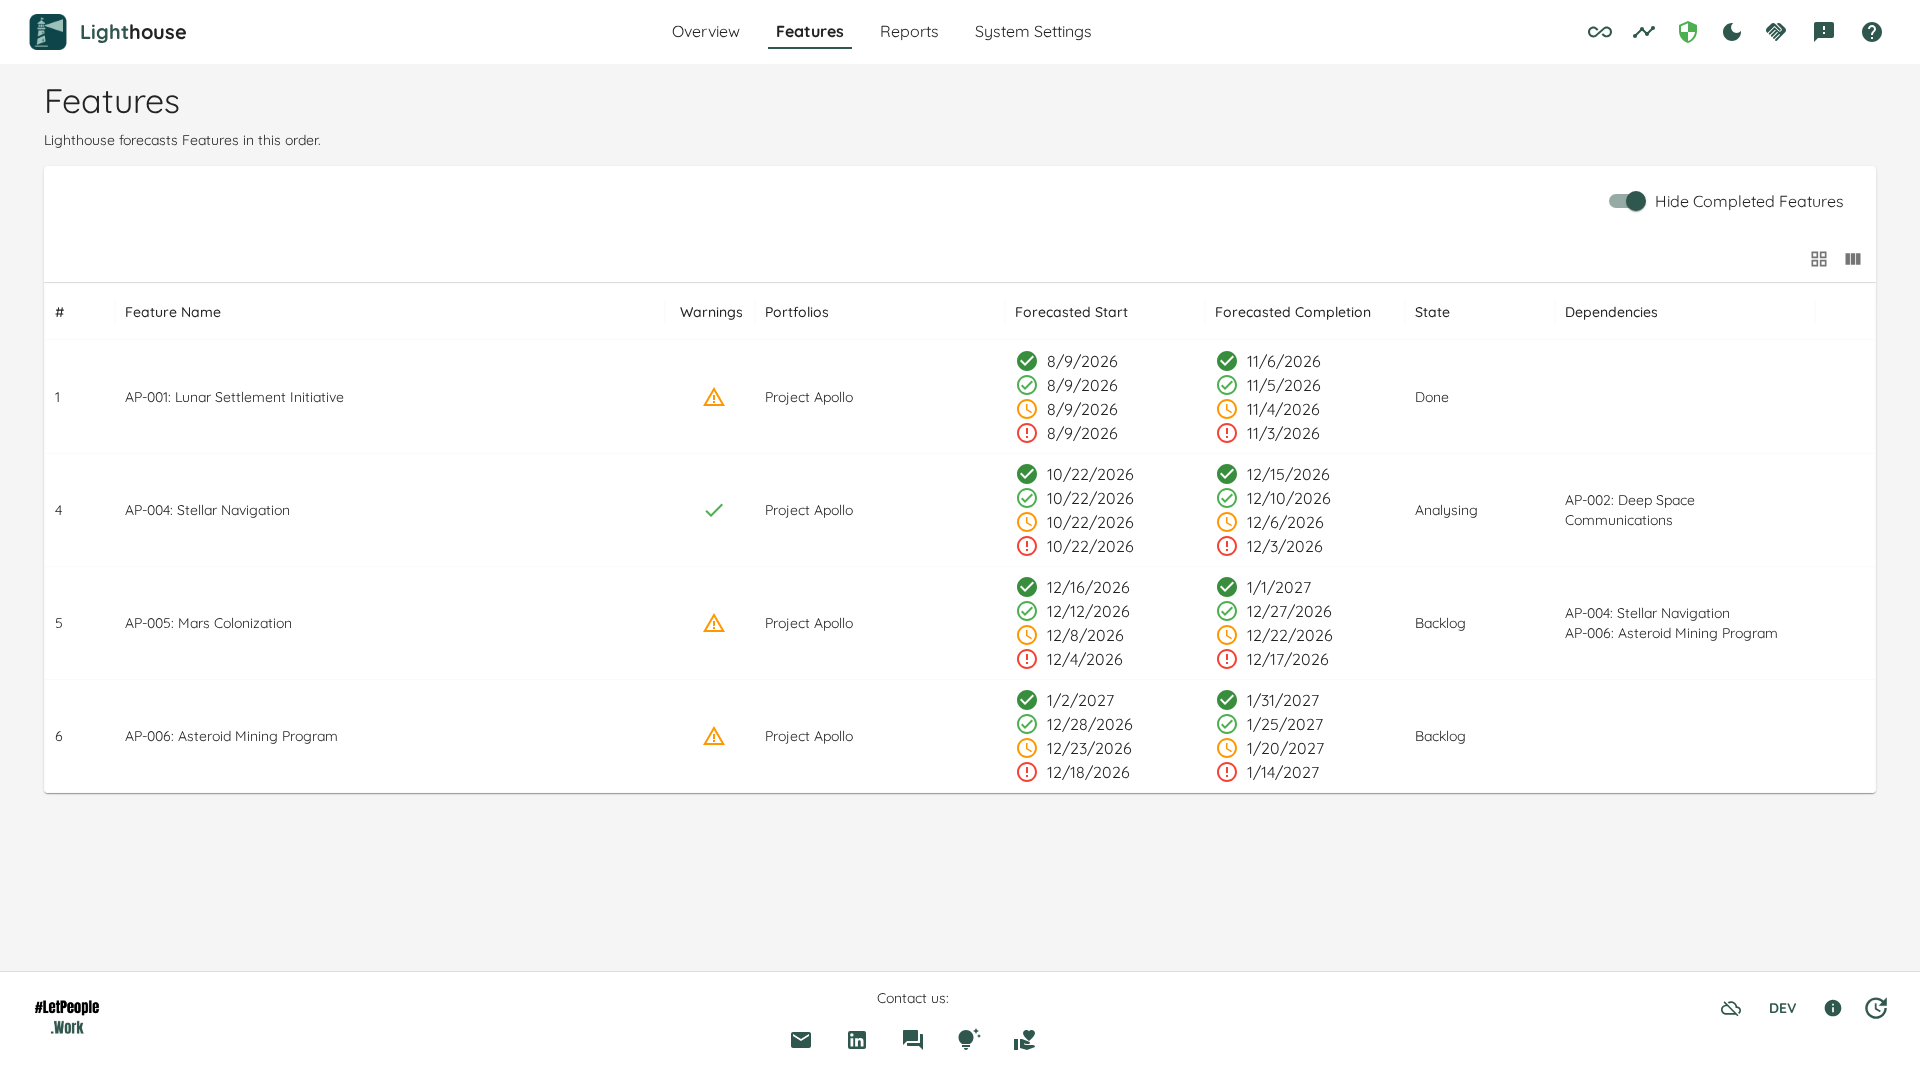
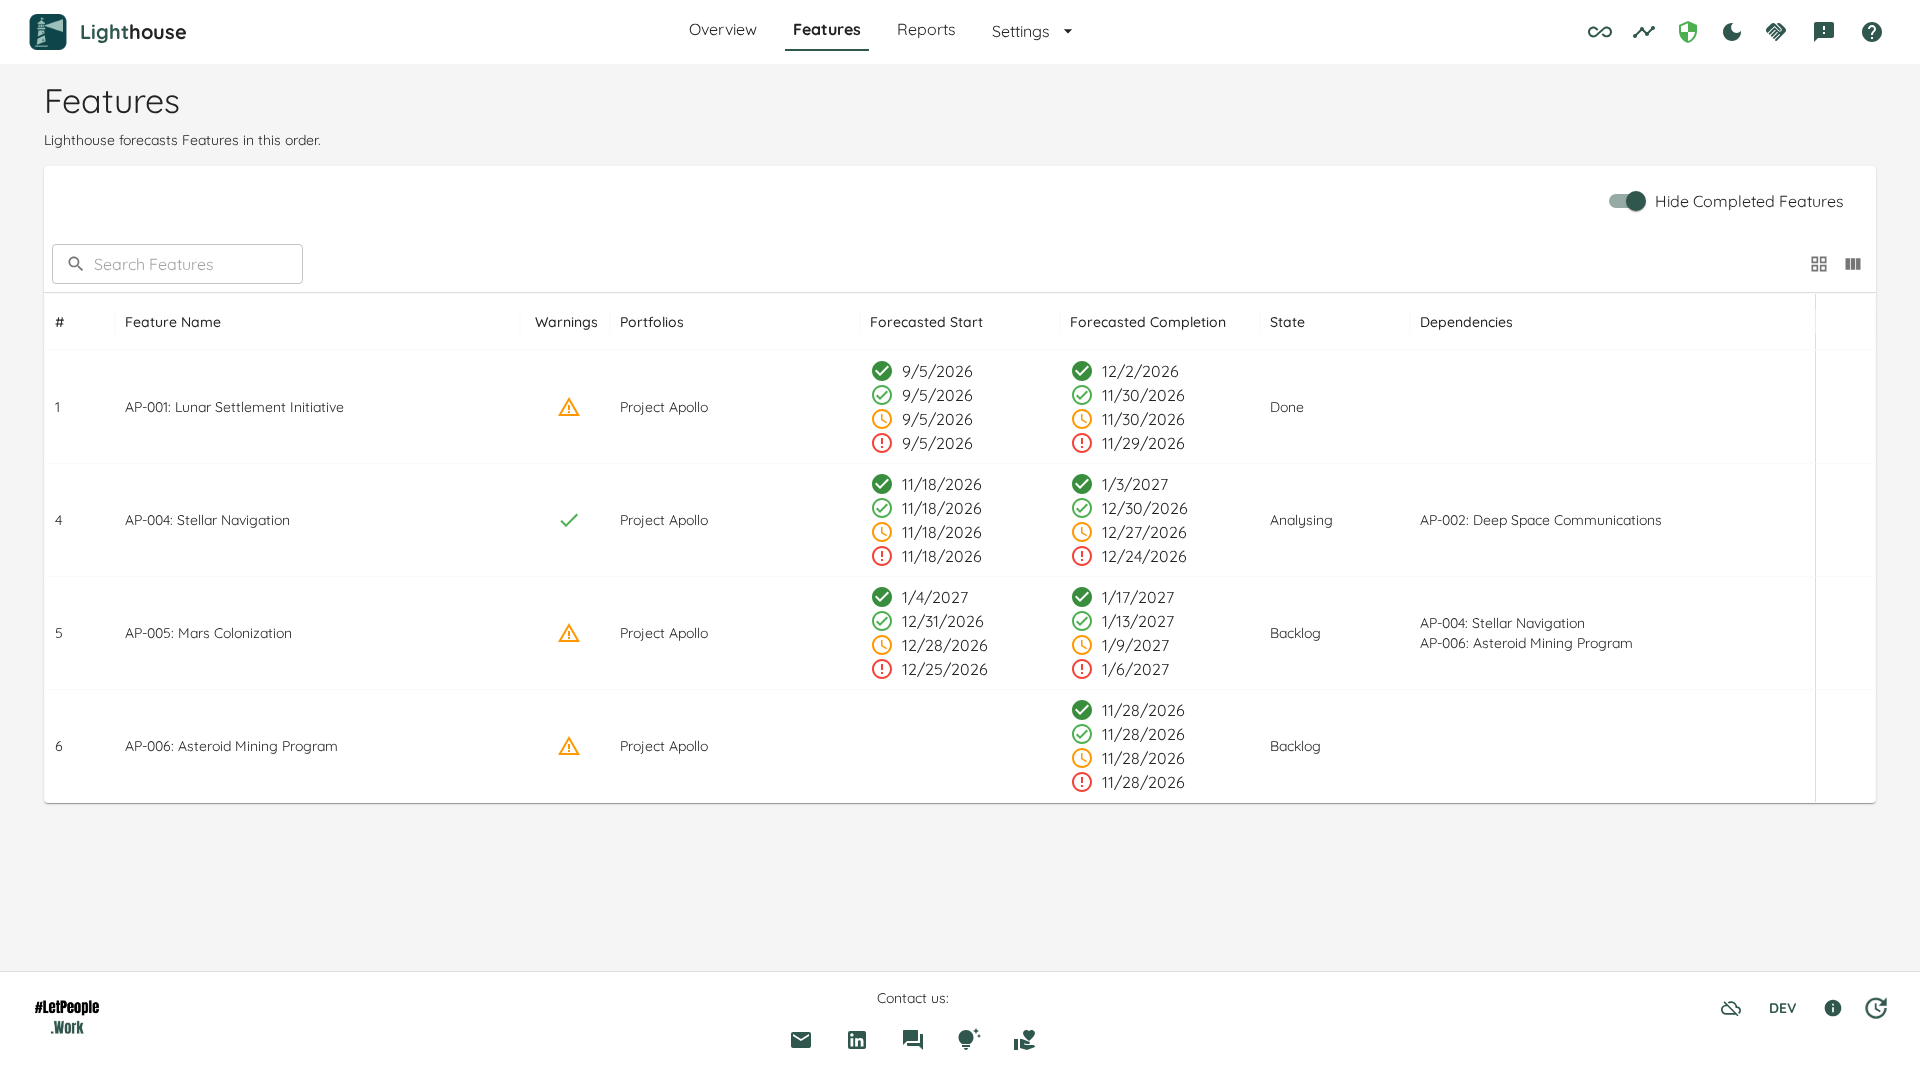
docs(release): screenshots for search, report notes and sizing; Jira OAuth write-back rights
The Features page, portfolio detail and Reports list screenshots show the
search box and the pinned Delete column. The report notes and the default
Feature sizing switch get their first screenshots. The Jira page now says
which scope write-back needs and that a sign-in made before rights were
recorded counts as read-only (Bug 6686).

diff --git a/docs/concepts/worktrackingsystems/jira.md b/docs/concepts/worktrackingsystems/jira.md
@@ -45,6 +45,8 @@ OAuth lets you authorise Lighthouse as an application in your Atlassian tenant, 
 
     All seven must be granted. `offline_access` is what lets Atlassian return a `refresh_token` so Lighthouse can keep the connection alive after the access token expires; without it the consent dance succeeds once and then the connection breaks at the first refresh.
 
+    **For write-back**: if the connection will have [write-back mappings](#write-back-rights), also add the classic scope `write:jira-work`. Atlassian grants only the scopes the app lists.
+
 5. Copy the **Client ID** and **Client Secret** from the **Settings** page. Treat the Client Secret like a password.
 
 #### Configure the connection in Lighthouse
@@ -54,6 +56,14 @@ OAuth lets you authorise Lighthouse as an application in your Atlassian tenant, 
 3. Paste the **Client ID** and **Client Secret** from the Atlassian developer console.
 4. Verify the read-only **Callback URL** field. It MUST match exactly what you registered with Atlassian — scheme, host, and `/api/oauth/callback` path. If it shows a warning, set `Lighthouse:BaseUrl` on the server first and reload the page.
 5. Click **Connect**. You are redirected to Atlassian; sign in, **Accept** the requested scopes, and you are sent back to Lighthouse. On success the connection's status moves to **Connected**.
+
+Lighthouse asks Atlassian only for the rights the connection needs. A connection without write-back mappings asks to read work items; once it has a write-back mapping, a sign-in also asks to write them. After you sign in, the **Authentication** section of the connection shows what the sign-in allows: *Rights: Read work items* or *Rights: Read and write work items*.
+
+#### Write-back rights
+
+When a connection whose sign-in may only read has a write-back mapping, a yellow warning appears above the write-back mappings and on the connection's card in the connections list: Lighthouse can only read from Jira with this sign-in. Click **Sign in again** and accept in Atlassian to give Lighthouse the right to write. Until then, Lighthouse writes nothing to Jira for that connection and notes in the log, once per write-back run, that it skipped the write.
+
+A Jira sign-in made before Lighthouse recorded rights counts as read-only, because those sign-ins never asked for write rights. If such a connection writes back, sign in again once.
 
 #### Silent refresh and reconnect
 

diff --git a/docs/portfolios/edit.md b/docs/portfolios/edit.md
@@ -141,6 +141,8 @@ If no child items are defined, it will fall back to the estimation. If no field 
 ## Switching default Feature sizing on and off
 Some teams would rather see a Feature as empty than give it a size nobody counted. The switch **Infer a size for Features without child Work Items** sits at the top of this group.
 
+![The default Feature sizing switch](../assets/features/portfolio_default_sizing.png)
+
 - A **new** Portfolio starts with the switch **off**.
 - If its connection names a **Size Estimate Field** for Portfolios when you create it, the new Portfolio starts with the switch **on**, so its Features read the size the field holds.
 - A cloned Portfolio keeps the setting of the Portfolio it copies.

diff --git a/docs/reports/reports.md b/docs/reports/reports.md
@@ -52,6 +52,8 @@ The [notes](#notes) of a report are deleted with the report.
 
 The numbers of a report do not say why they moved. A note does: "The team grew from 6 to 9 people", "Two weeks of training in March". Notes are short texts that you and others write on a report, so that whoever reads it later knows what happened in the meantime.
 
+![The notes of a report](../assets/features/report_notes.png)
+
 ## Reading the Notes
 
 The notes sit under the report's name, above the numbers, in a row that starts closed: **Notes (2)** tells you that the report has two notes. Click the row to open it. A report without notes shows **Notes (0)**.
